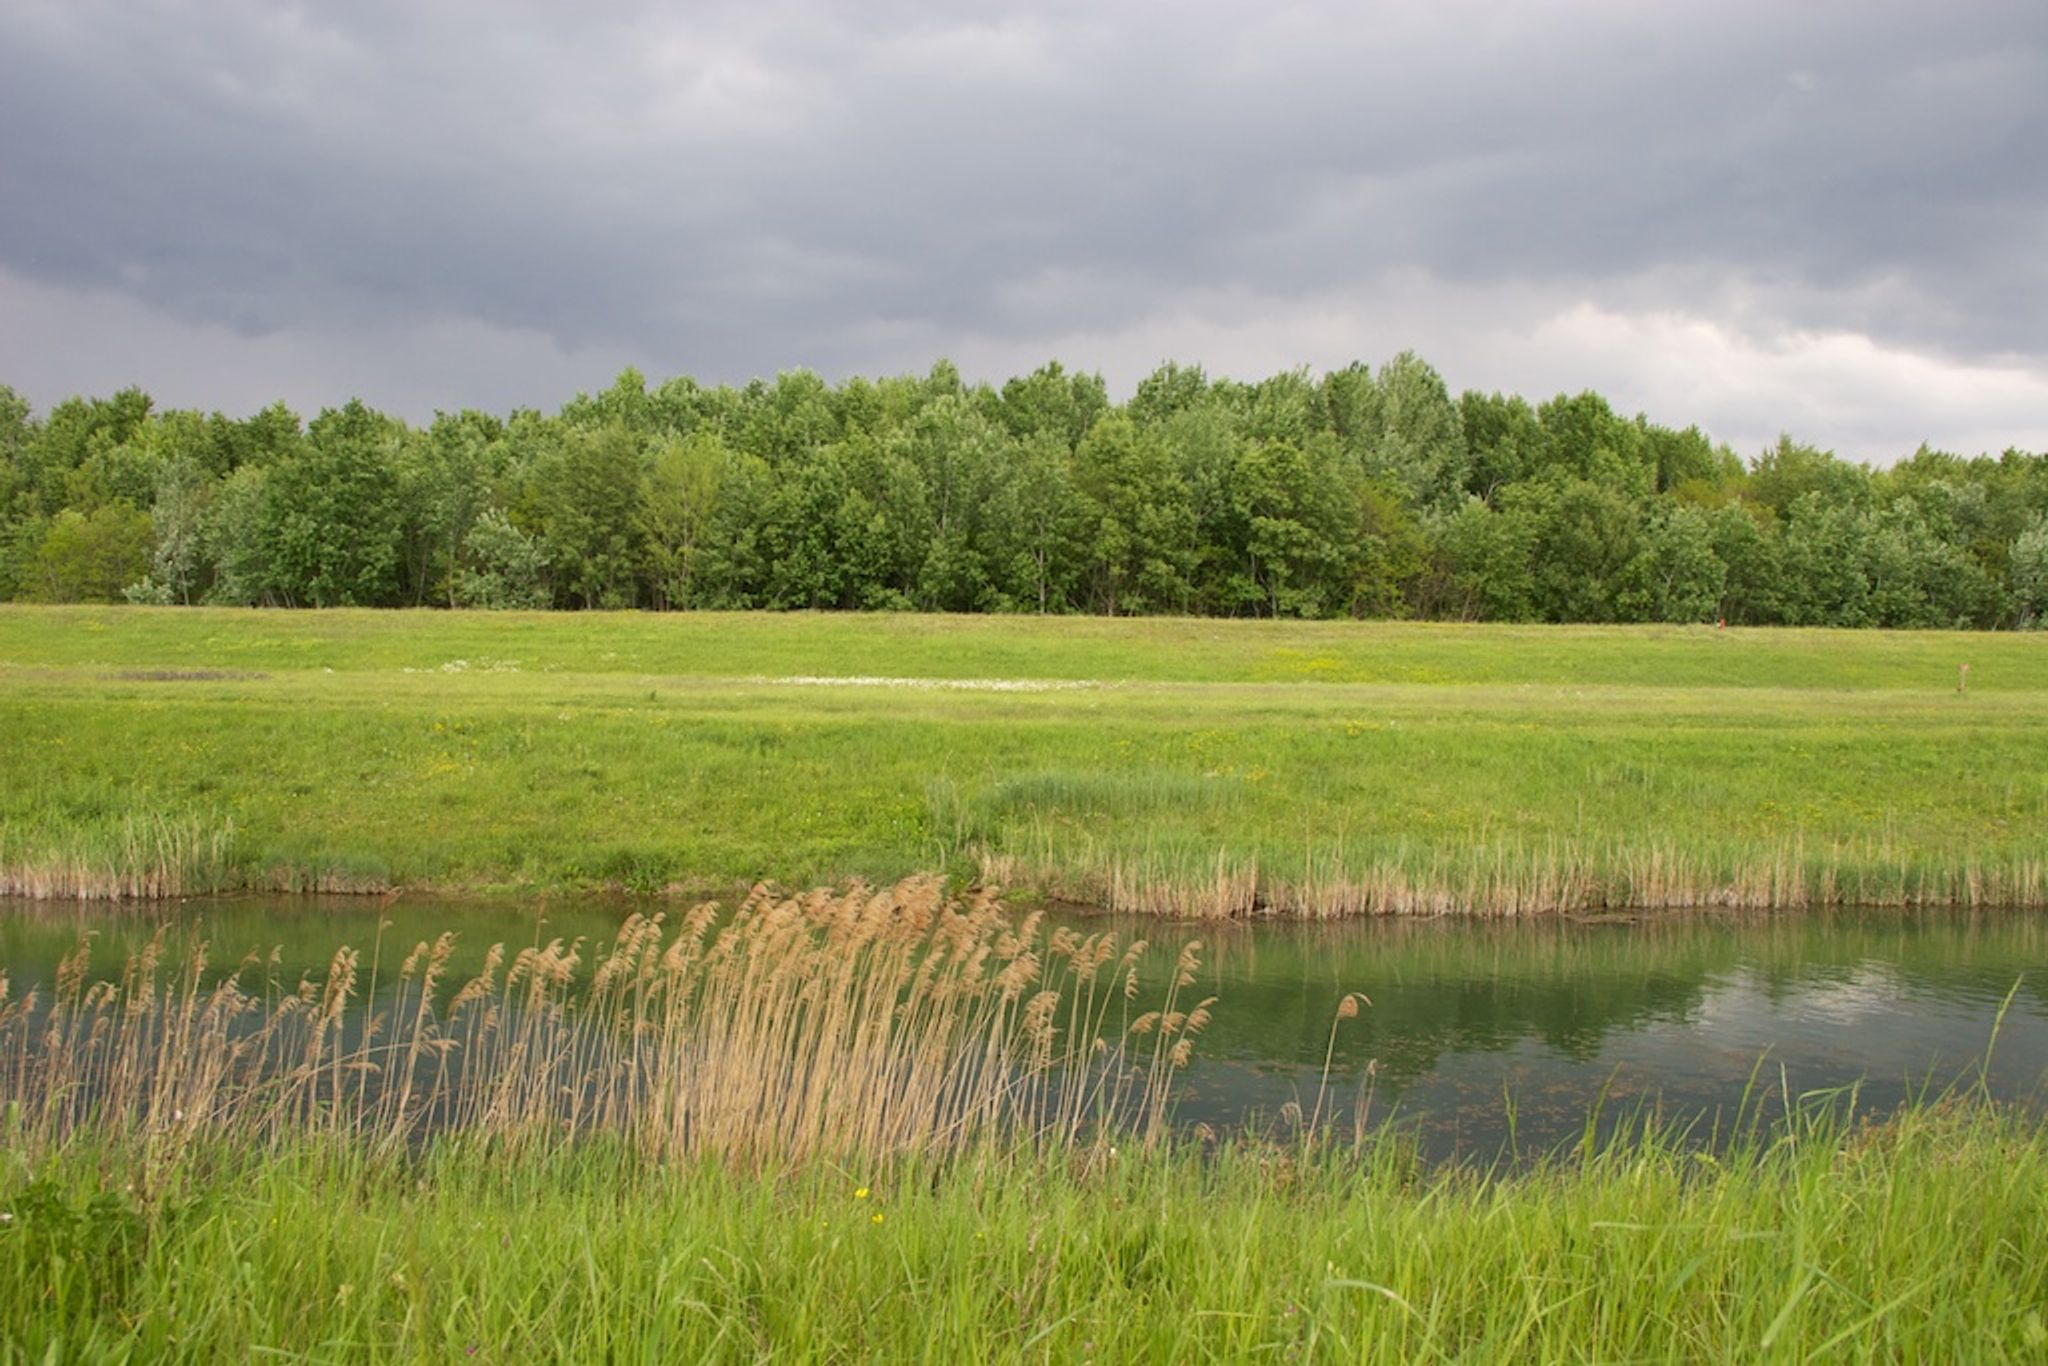
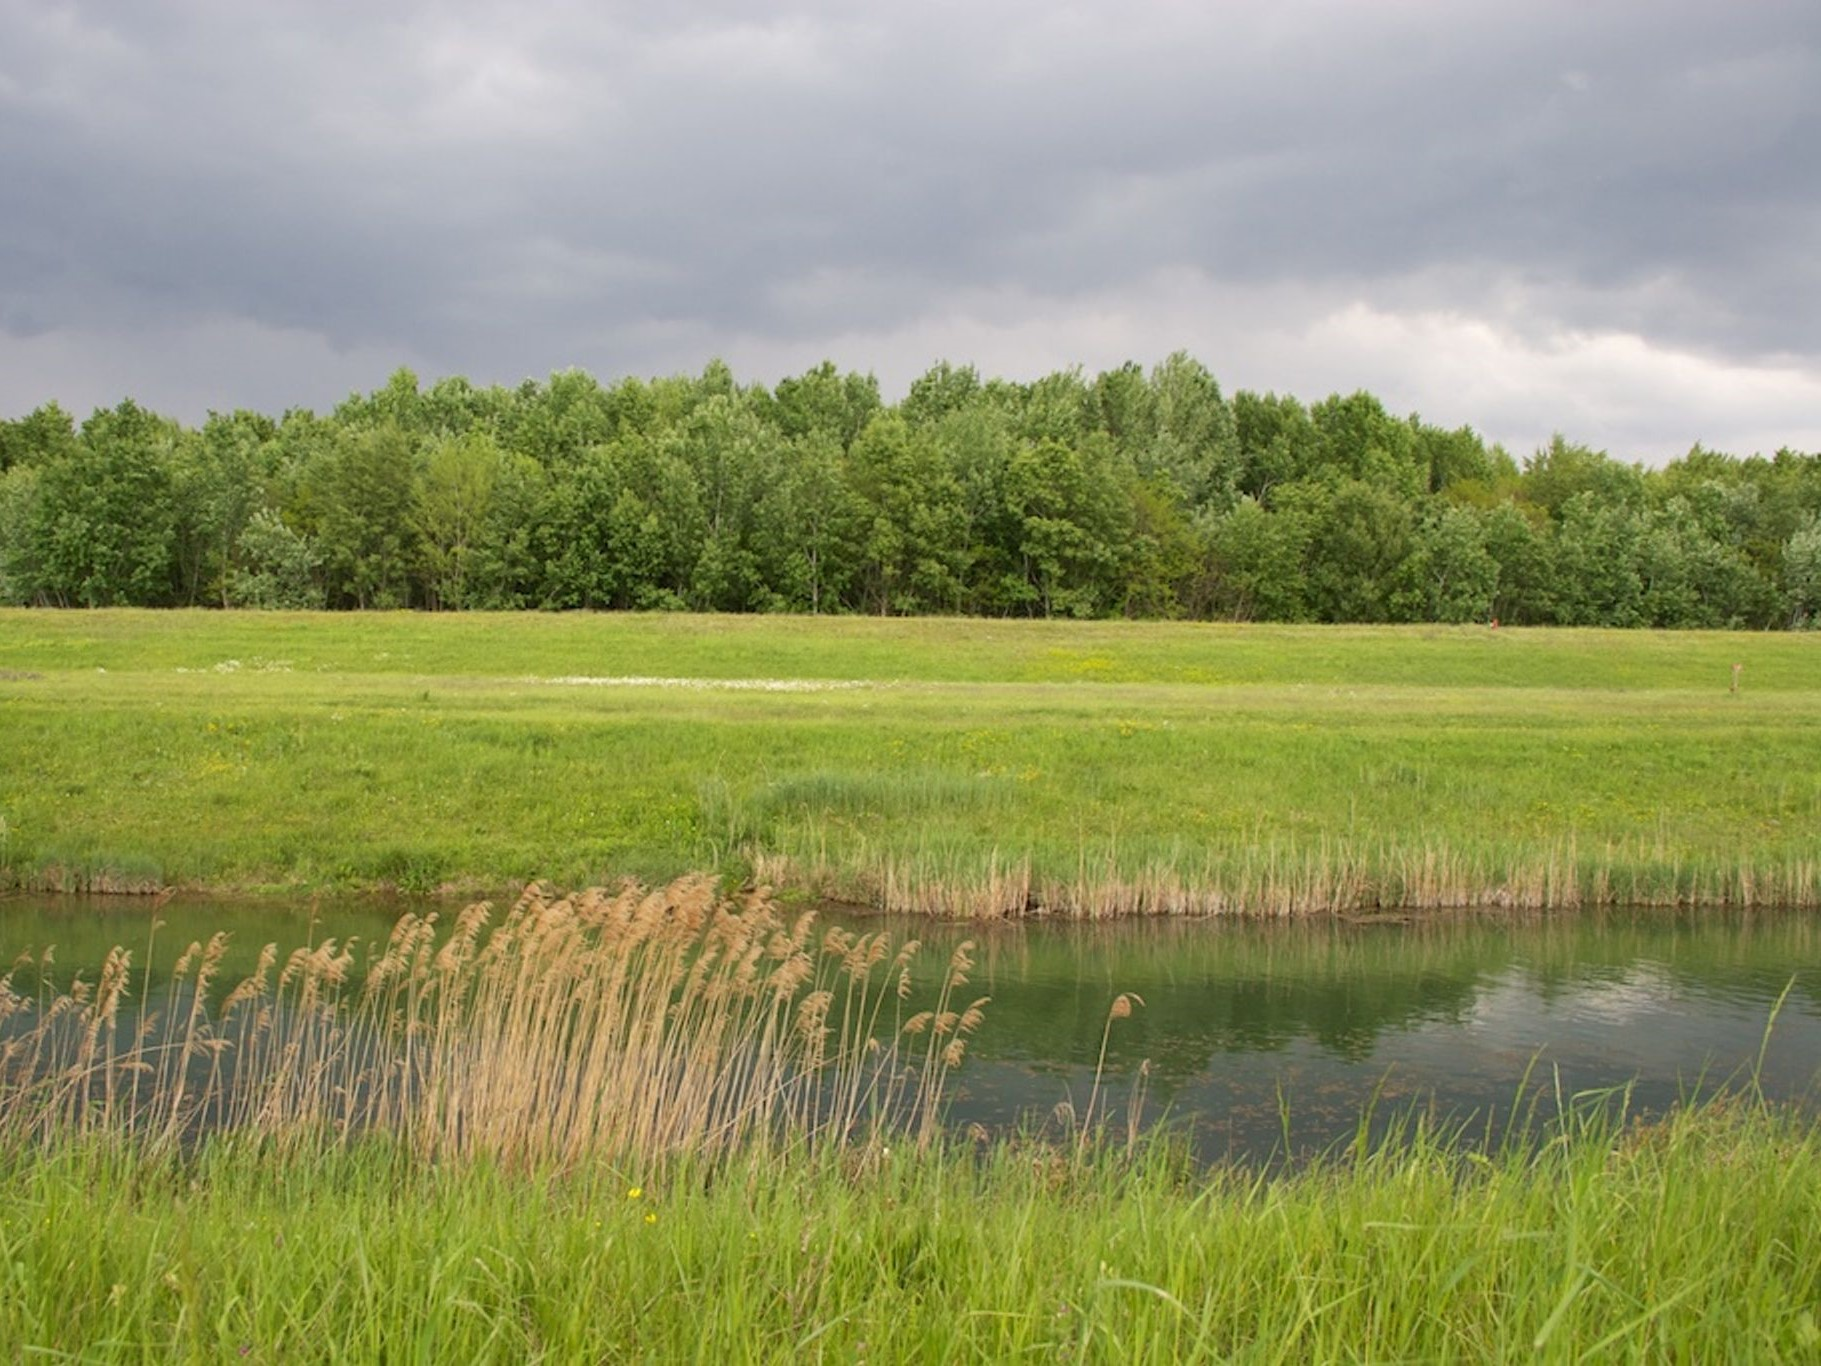
Added Google Maps embed

diff --git a/index.html b/index.html
@@ -51,8 +51,16 @@
 
         <div class="grid grid-3-columns">
           <div class="card">
-            <div class="card-header">
+            <div class="card-header grid grid-2-columns">
               <img src="images/hainburg.jpg" alt="" class="img-responsive" />
+              <iframe
+                src="https://www.google.com/maps/embed?pb=!1m18!1m12!1m3!1d42592.0270868236!2d16.90926547347107!3d48.14877258836484!2m3!1f0!2f0!3f0!3m2!1i1024!2i768!4f13.1!3m3!1m2!1s0x476cf4e0a8bd76bd%3A0x40097572de62370!2sHainburg%20an%20der%20Donau%2C%20Rak%C3%BAsko!5e0!3m2!1ssk!2ssk!4v1690656590813!5m2!1ssk!2ssk"
+                class="embed"
+                style="border: 0"
+                allowfullscreen=""
+                loading="lazy"
+                referrerpolicy="no-referrer-when-downgrade"
+              ></iframe>
             </div>
             <div class="card-body">
               <h4>Bratislava-Hainburg loop</h4>
@@ -74,8 +82,16 @@
           </div>
 
           <div class="card">
-            <div class="card-header">
+            <div class="card-header grid grid-2-columns">
               <img src="images/biely_kriz.jpg" alt="" class="img-responsive" />
+              <iframe
+                src="https://www.google.com/maps/embed?pb=!1m18!1m12!1m3!1d10640.993975260786!2d17.1295!3d48.1825635!2m3!1f0!2f0!3f0!3m2!1i1024!2i768!4f13.1!3m3!1m2!1s0x476c8e99be313b07%3A0x216ad8582b6814a9!2sBiely%20Kr%C3%AD%C5%BE%2C%20831%2002%20Bratislava!5e0!3m2!1ssk!2ssk!4v1690657269846!5m2!1ssk!2ssk"
+                class="embed"
+                style="border: 0"
+                allowfullscreen=""
+                loading="lazy"
+                referrerpolicy="no-referrer-when-downgrade"
+              ></iframe>
             </div>
             <div class="card-body">
               <h4>Rača-Biely kríž</h4>
@@ -99,8 +115,16 @@
           </div>
 
           <div class="card">
-            <div class="card-header">
+            <div class="card-header grid grid-2-columns">
               <img src="images/cunovo.jpg" alt="" class="img-responsive" />
+              <iframe
+                src="https://www.google.com/maps/embed?pb=!1m18!1m12!1m3!1d42690.07091080913!2d17.192787149999997!3d48.030526849999994!2m3!1f0!2f0!3f0!3m2!1i1024!2i768!4f13.1!3m3!1m2!1s0x476c7d012fde77c9%3A0x500f7d1c69790f0!2s851%2010%20%C4%8Cunovo!5e0!3m2!1ssk!2ssk!4v1690657365797!5m2!1ssk!2ssk"
+                class="embed"
+                style="border: 0"
+                allowfullscreen=""
+                loading="lazy"
+                referrerpolicy="no-referrer-when-downgrade"
+              ></iframe>
             </div>
             <div class="card-body">
               <h4>Čunovská Bike Trail</h4>

diff --git a/styles/style.css b/styles/style.css
@@ -26,6 +26,14 @@ body {
   grid-gap: 30px;
 }
 
+.grid-2-columns {
+  grid-template-columns: 1fr 1fr;
+}
+
+.embed {
+  width: 100%;
+  aspect-ratio: 2/1.5;
+}
 .card {
   background-color: #8eab99;
   margin: 30px 0;
@@ -33,6 +41,10 @@ body {
 
 .card-body {
   padding: 30px;
+}
+
+.card-header.grid {
+  grid-gap: 0;
 }
 
 .btn {
@@ -47,7 +59,7 @@ body {
 }
 
 .img-responsive {
-  max-width: 100%;
+  width: 100%;
   display: block;
 }
 
@@ -203,5 +215,12 @@ section {
   }
   main h3 {
     font-size: 25px;
+  }
+
+  .card-header img {
+    display: none;
+  }
+  .embed {
+    aspect-ratio: 16/9;
   }
 }
